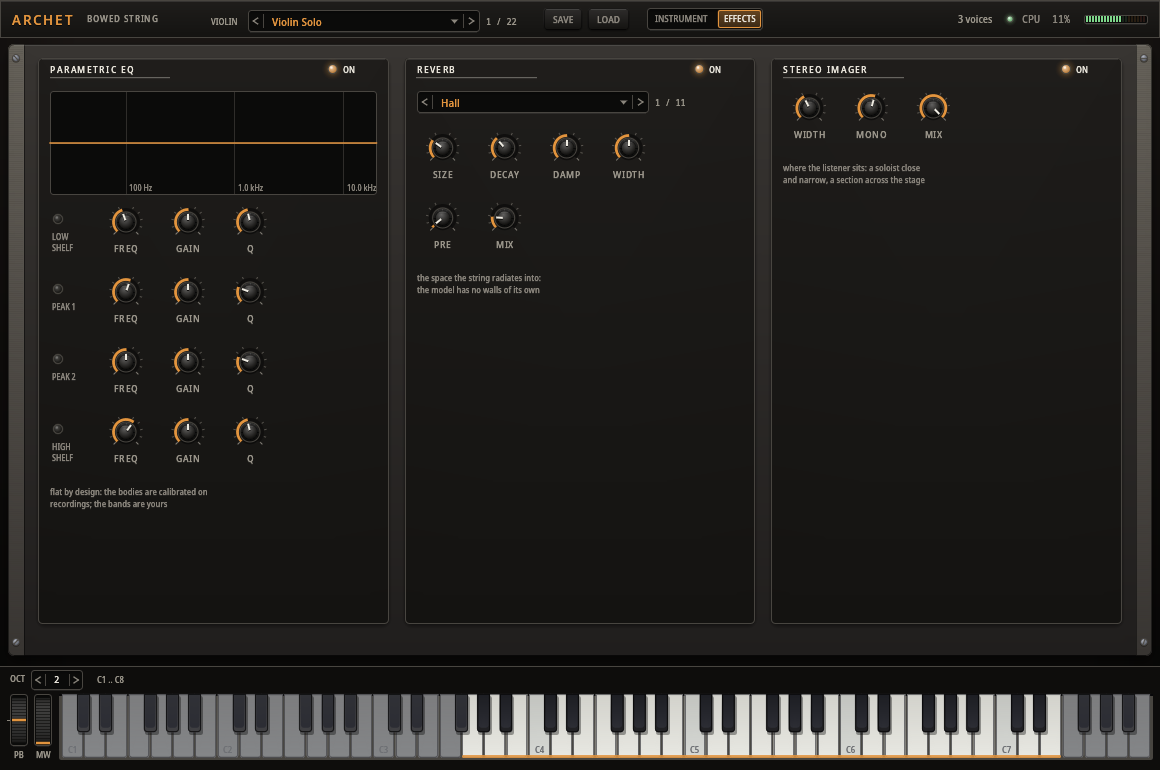
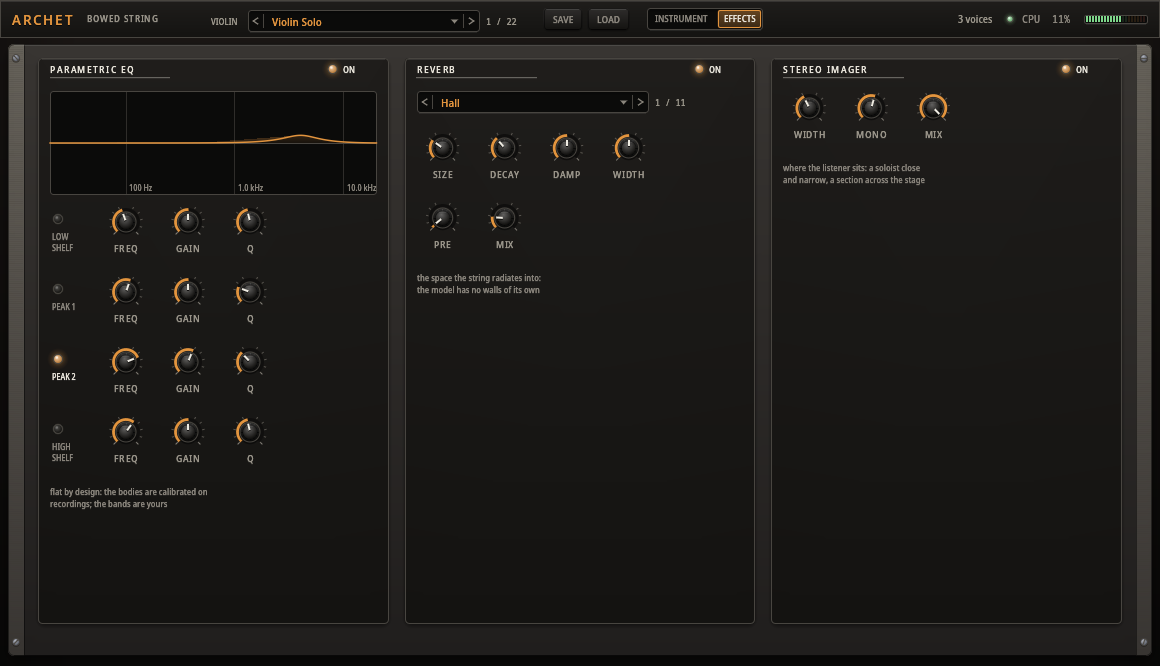
Take the keyboard out of the window
The window is the chrome and the panel, 666 pixels high. A host or the
sequencer plays the instrument; the host's notes, bend and wheel still
reach the engine as before.

diff --git a/crates/archet-ui/src/app.rs b/crates/archet-ui/src/app.rs
@@ -1,4 +1,4 @@
-//! The editor: the machine under the shared chrome, the keyboard below.
+//! The editor: the machine under the shared chrome.
 //!
 //! Laid out in fixed rectangles rather than egui containers. The composition
 //! is a drawing -- a bow crossing a string, the corpus it drives, the player
@@ -13,7 +13,6 @@ use archet::{ArchetCommand, ArchetMeterState};
 use phonix_plugin::preset::Preset;
 use phonix_rt::SharedReader;
 use phonix_ui::chrome::{plugin_chrome_panel, PillEntry, PluginChrome};
-use phonix_ui::keyboard::{keyboard_ui, KeyEvent, KeyboardState, KeyboardStyle, BEND_SEMITONES};
 use phonix_ui::preset_picker::{NamedPreset, PresetPickerState};
 use phonix_ui::widgets;
 
@@ -24,12 +23,11 @@ use crate::theme;
 
 /// The size the layout is drawn for. The window is fixed at this.
 pub const W: f32 = 1160.0;
-pub const H: f32 = 770.0;
-/// The panel's height inside the case, the chrome above and the keyboard
-/// below taken off. The head band went with the nameplate: the name and
-/// what the instrument is are in the shared header now.
+pub const H: f32 = 666.0;
+/// The panel's height inside the case, the chrome above taken off. The head
+/// band went with the nameplate: the name and what the instrument is are in
+/// the shared header now.
 pub const PANEL_H: f32 = 602.0;
-const KEYBOARD_H: f32 = 104.0;
 
 /// The four bodies, in the engine's own order.
 const BODIES: [&str; 4] = ["VIOLIN", "VIOLA", "CELLO", "BASS"];
@@ -47,7 +45,6 @@ pub struct ArchetApp {
     /// The named fields moved in the window since the plugin last asked,
     /// for the host's parameters to follow.
     moved: Vec<(ArchetParam, f32)>,
-    keys: KeyboardState,
     /// Frames left before the editor will adopt the engine's patch again.
     sync_cooldown: u8,
     mirror_hold: u8,
@@ -74,7 +71,6 @@ impl ArchetApp {
             picker: PresetPickerState::default(),
             wants_preset: None,
             moved: Vec::new(),
-            keys: KeyboardState::new(2, 4),
             sync_cooldown: 0,
             mirror_hold: 0,
             tab: 0,
@@ -209,7 +205,6 @@ impl ArchetApp {
         ctx.request_repaint_after(std::time::Duration::from_millis(33));
 
         self.draw_chrome(ui);
-        self.draw_keyboard(ui);
 
         egui::CentralPanel::default()
             .frame(egui::Frame::NONE.fill(PANEL_EDGE))
@@ -283,39 +278,6 @@ impl ArchetApp {
                 self.send(ArchetCommand::LoadPatch(Box::new(p)));
             }
         }
-    }
-
-    /// Notes go out on the raw sender, never through `send`: a note is not a
-    /// parameter edit, and arming the mirror cooldown on every key would keep
-    /// the editor from adopting the engine's patch while playing.
-    fn draw_keyboard(&mut self, ui: &mut Ui) {
-        egui::Panel::bottom("archet_keys")
-            .exact_size(KEYBOARD_H)
-            .frame(egui::Frame::NONE.fill(PANEL_EDGE).inner_margin(egui::Margin::symmetric(10i8, 4i8)))
-            .show_inside(ui, |ui| {
-                self.keys.active.clear();
-                self.keys.active.extend_from_slice(&self.cached_meter.active_notes);
-                let style = KeyboardStyle {
-                    accent: ROSIN,
-                    height: 64.0,
-                    labels: true,
-                    velocity: 100,
-                    velocity_by_y: true,
-                    header: true,
-                    wheels: true,
-                    id_salt: "archet_kbd",
-                    range: Some(self.patch.range()),
-                };
-                for ev in keyboard_ui(ui, &mut self.keys, &style) {
-                    let cmd = match ev {
-                        KeyEvent::On { note, velocity } => ArchetCommand::NoteOn(note, velocity),
-                        KeyEvent::Off { note } => ArchetCommand::NoteOff(note),
-                        KeyEvent::PitchBend(v) => ArchetCommand::PitchBend(v * BEND_SEMITONES),
-                        KeyEvent::ModWheel(v) => ArchetCommand::ModWheel(v),
-                    };
-                    let _ = self.tx.send(cmd);
-                }
-            });
     }
 
     // -- Tier one: the bow on the string -------------------------------
@@ -546,13 +508,13 @@ mod tests {
     }
 
     // The panel and the keyboard fit the window, with room for the chrome.
-    const _: () = assert!(PANEL_H + KEYBOARD_H < H);
-    const _: () = assert!(H - PANEL_H - KEYBOARD_H >= 40.0);
+    const _: () = assert!(PANEL_H < H);
+    const _: () = assert!(H - PANEL_H >= 40.0);
 
-    /// The window is exactly the chrome, the panel and the keyboard.
+    /// The window is exactly the chrome and the panel.
     #[test]
     fn the_window_holds_what_it_draws() {
-        assert_eq!((W, H), (1160.0, 770.0));
+        assert_eq!((W, H), (1160.0, 666.0));
     }
 
     #[test]

diff --git a/crates/archet-plugin/src/lib.rs b/crates/archet-plugin/src/lib.rs
@@ -807,7 +807,7 @@ mod frozen_identifiers {
     fn the_declared_window_size_is_the_editors_own() {
         let p = ArchetParams::new(0, Arc::new(vec!["Init".to_string()]));
         assert_eq!(p.editor_state.size(), (archet_app::W as u32, archet_app::H as u32));
-        assert_eq!((archet_app::W, archet_app::H), (1160.0, 770.0));
+        assert_eq!((archet_app::W, archet_app::H), (1160.0, 666.0));
     }
 }
 

diff --git a/README.md b/README.md
@@ -25,9 +25,9 @@ and damping of the stroke. The body: which of the four, its response with
 the bridge hill drawn, and the torsion under it. The player: attack and
 release, the vibrato, the dynamics, how the keys phrase, the size of the
 section, the polyphony, the level.
-The keyboard below plays it, and underlines the notes the instrument
-plays: outside them the model is asked for a note the real instrument
-has no string for.
+The notes the instrument plays are the compass of the chosen instrument:
+outside them the model is asked for a note the real instrument has no
+string for.
 
 ![The editor, bowing](docs/screenshots/archet_arco.png)
 
